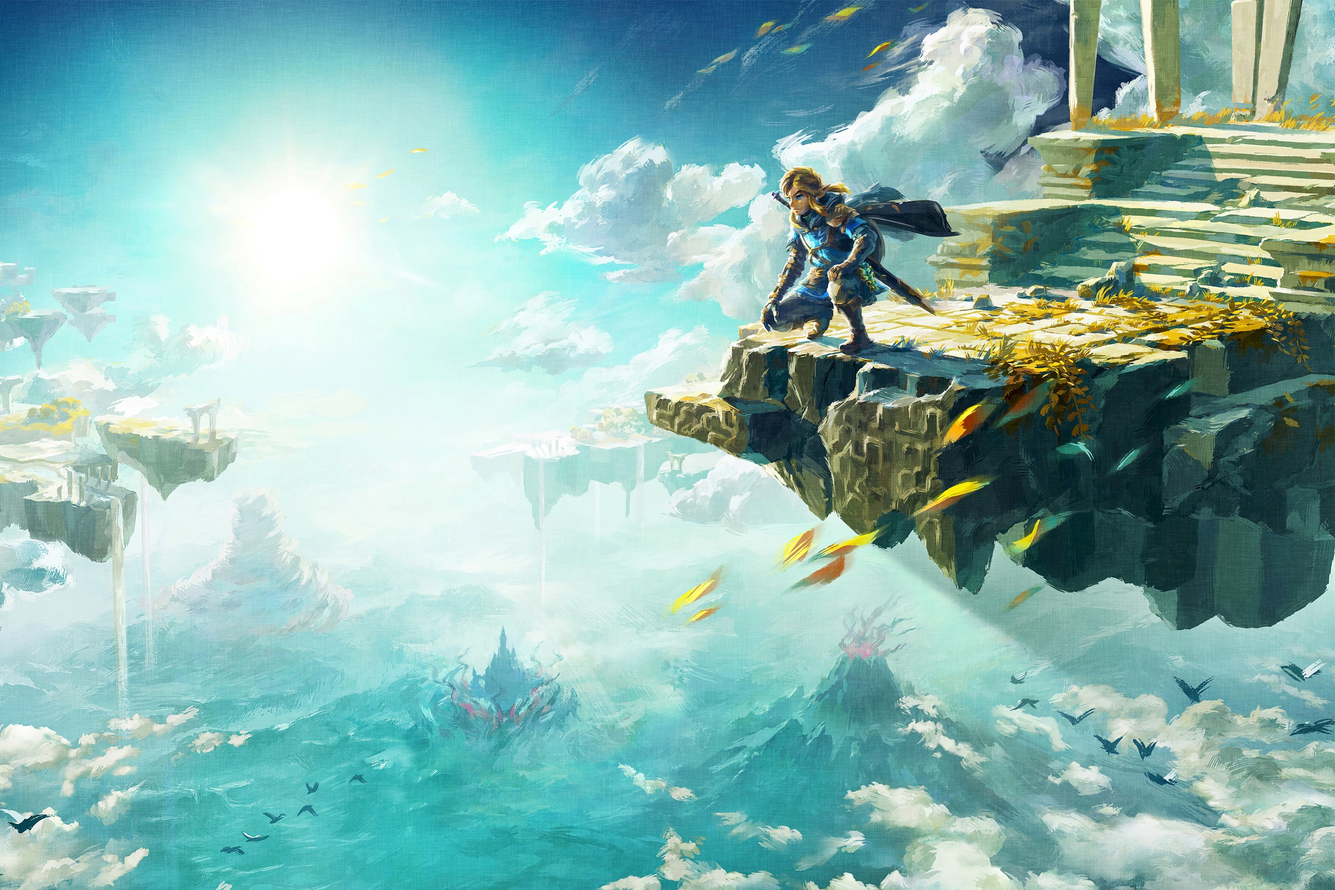
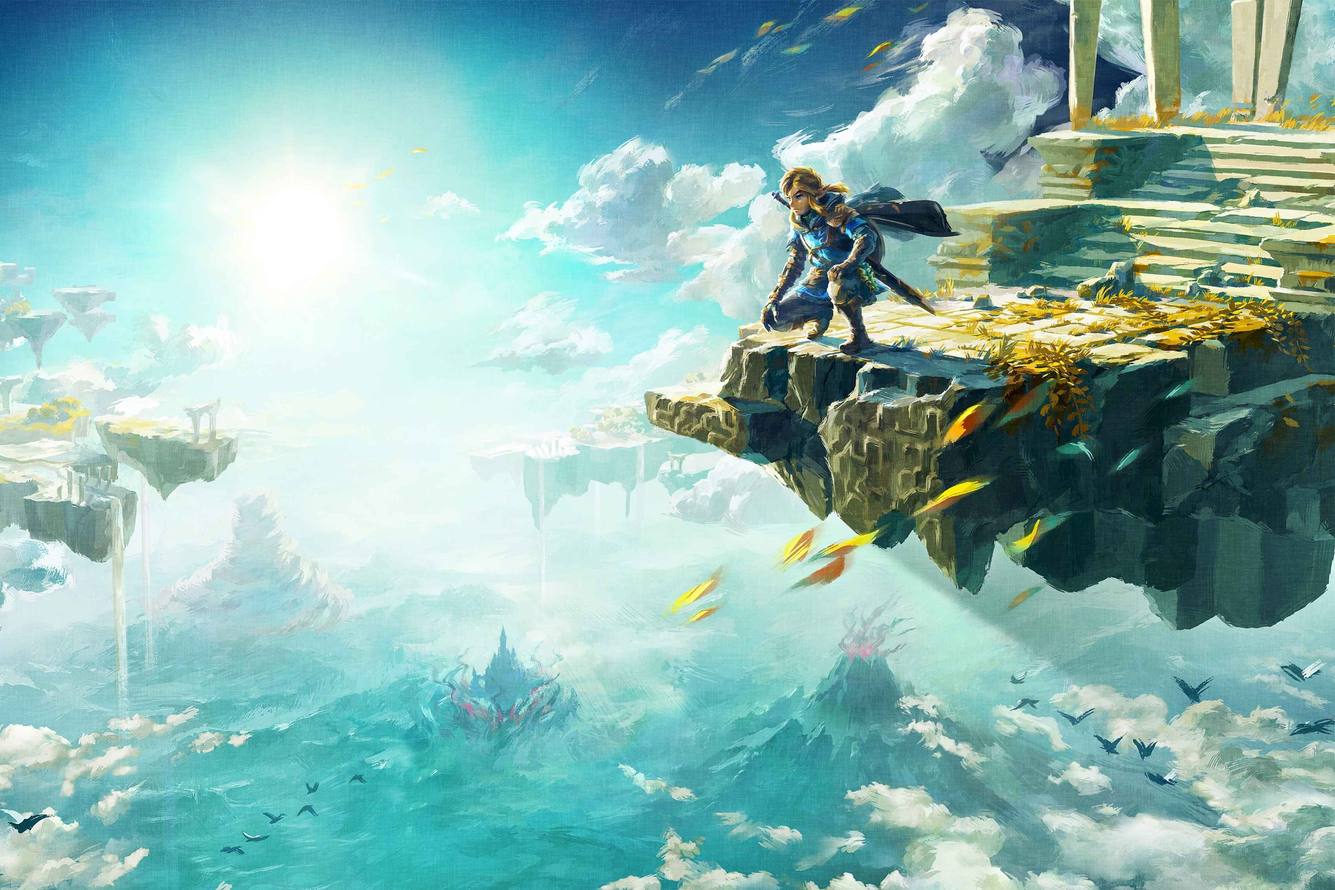
promotional picture changes
reduced res on promotional.jpg and updated name

Changed region(s): [[0.748, 0.3086, 0.9662, 0.4321], [0.7168, 0.3704, 0.748, 0.4012]]

diff --git a/css/style.css b/css/style.css
@@ -126,7 +126,7 @@ header nav > a:hover{
 #promotional{
     aspect-ratio: 3 / 2;
     width: 100%;
-    background: url("../images/Promotional.jpg");
+    background: url("../images/promotional.jpg");
     background-size: cover;
     background-position: center; 
     background-repeat: no-repeat;
